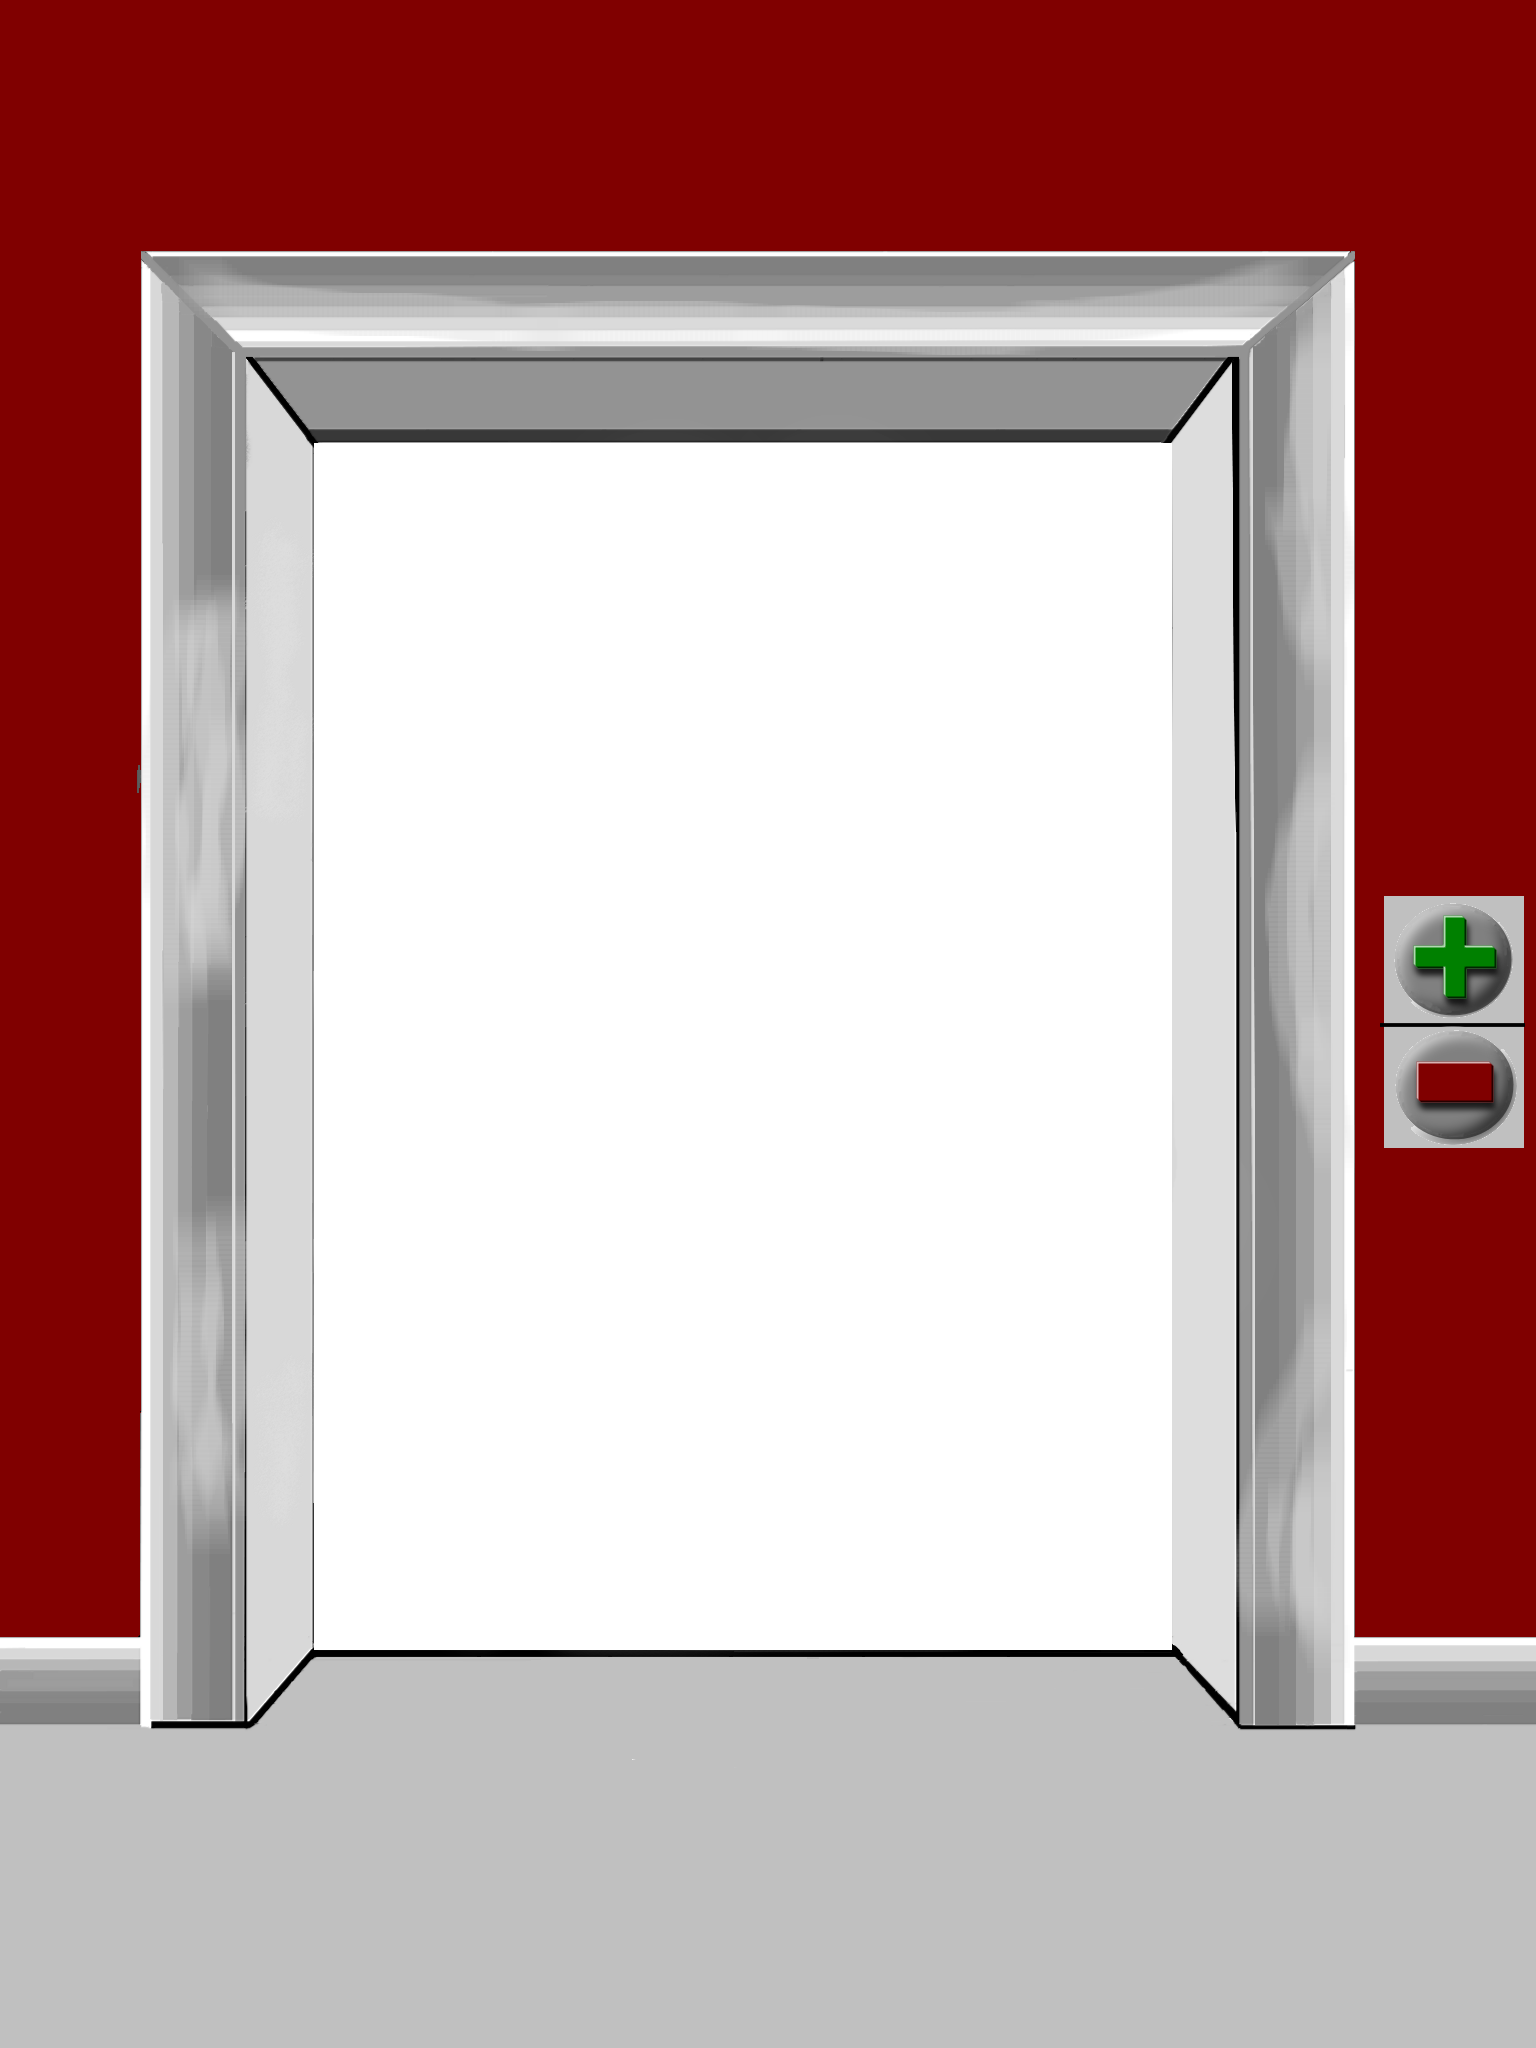
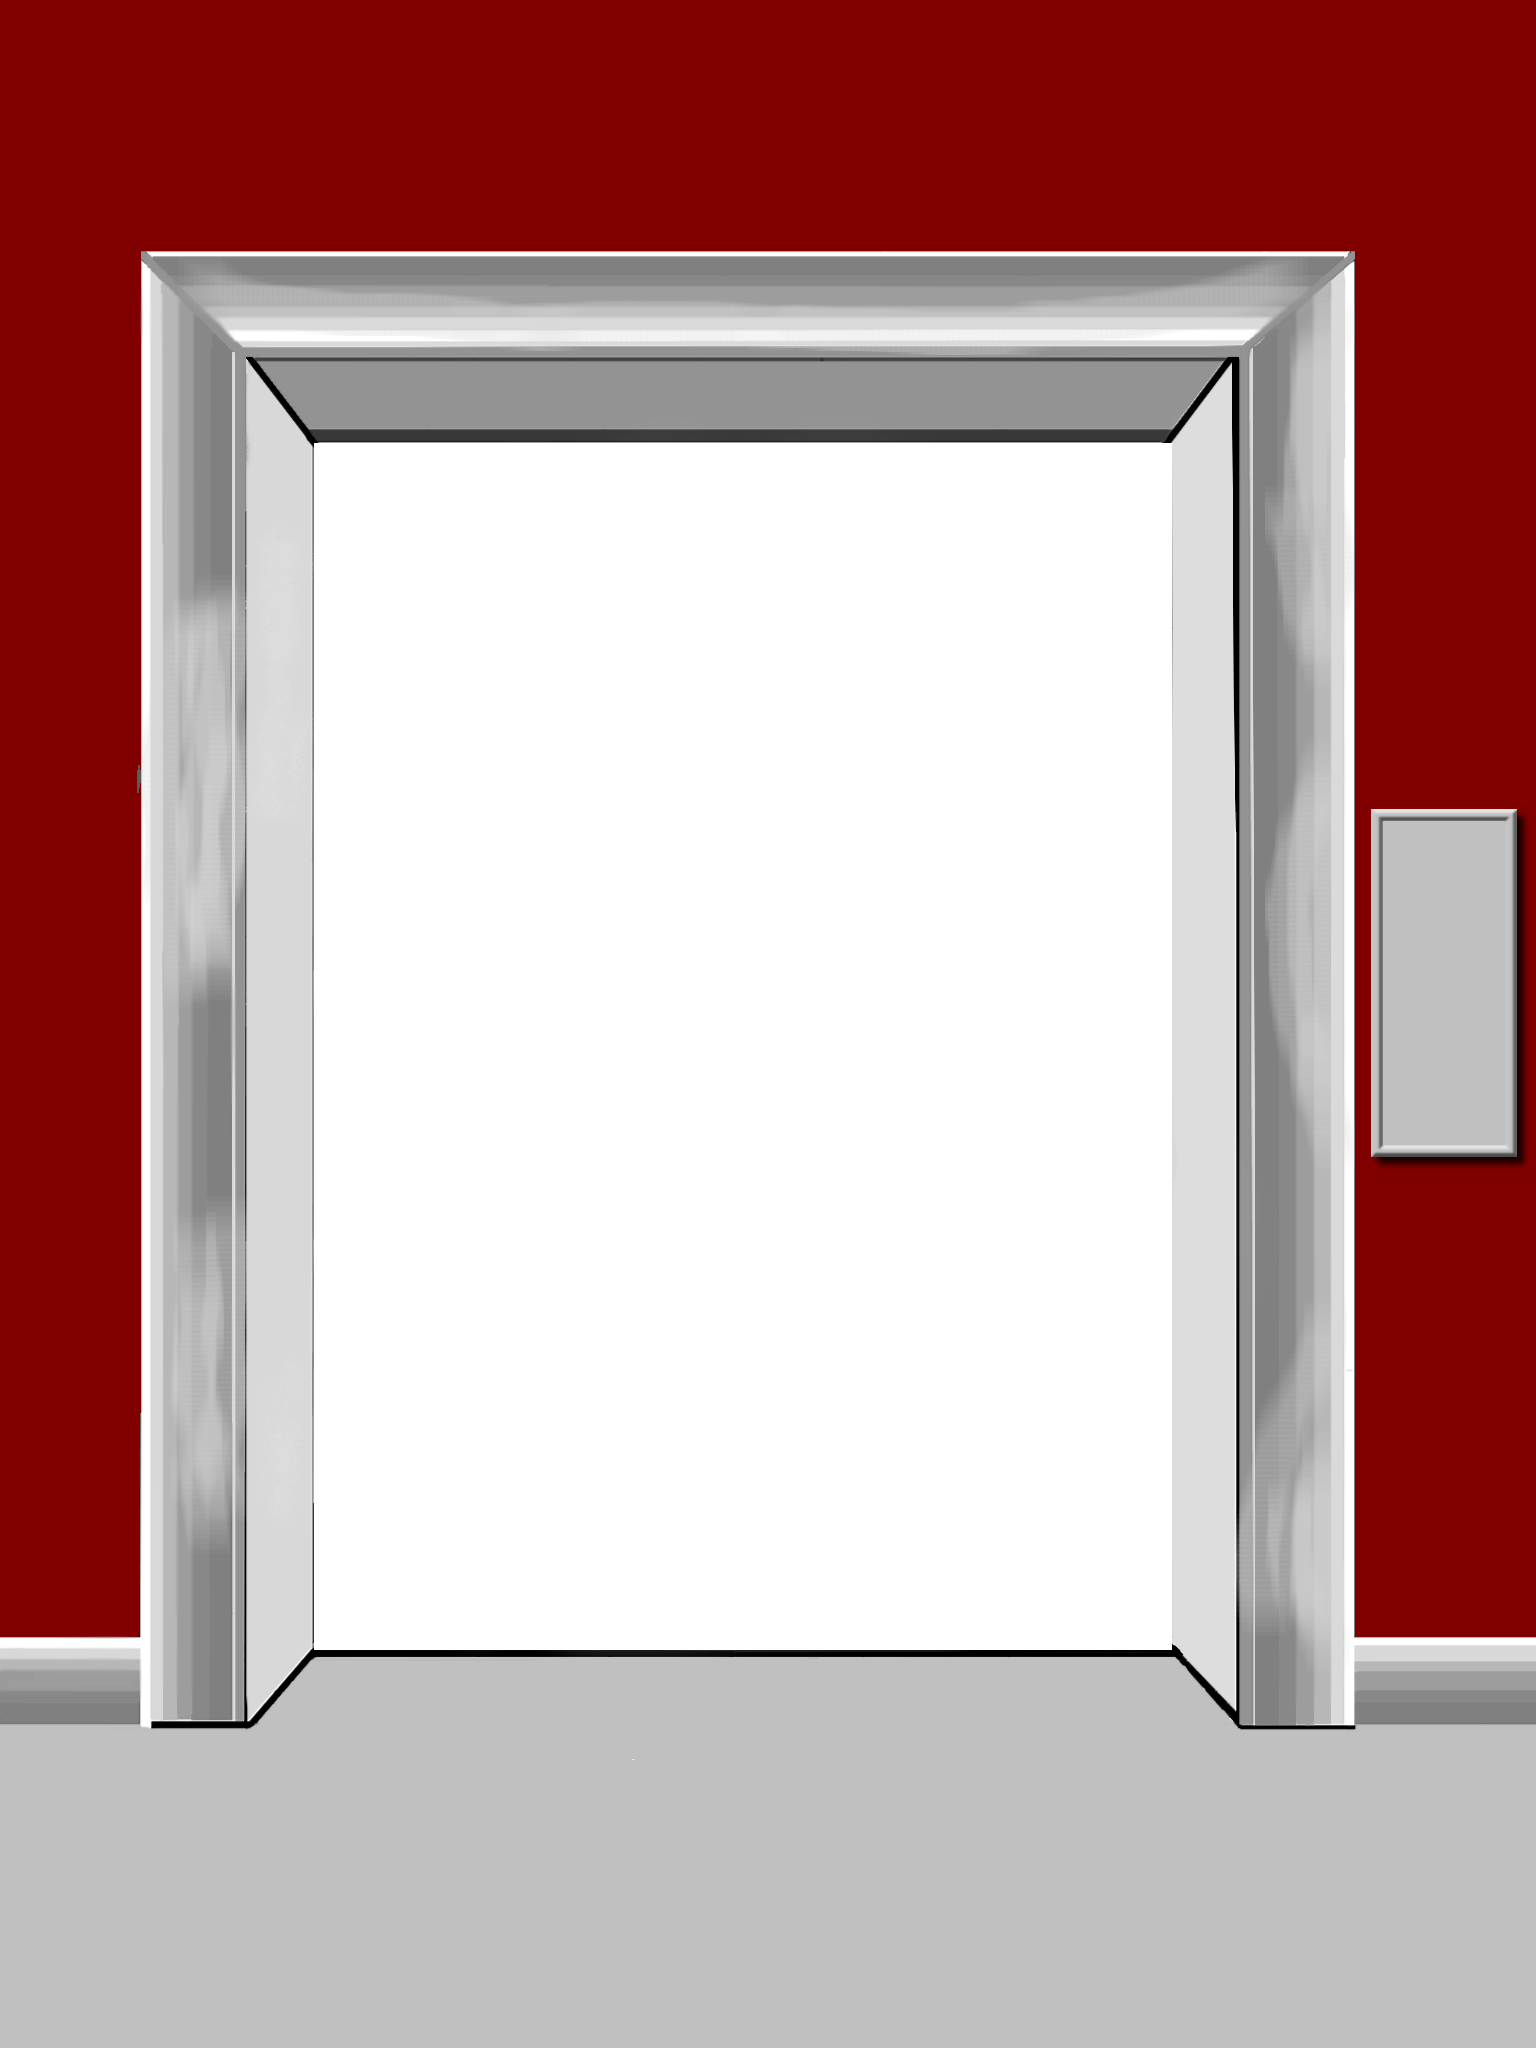
Ajout sprite et animation des boutons

Changed region(s): [[0.875, 0.375, 1.0, 0.5938]]

diff --git a/liftPrices/js/lift.js b/liftPrices/js/lift.js
@@ -2,6 +2,8 @@ var outSide; var tempOutSide;
 var inSide; var tempInSide;
 var leftDoor; var tempLeftDoor;
 var rightDoor; var tempRightDoor;
+var buttonMore; var tempButtonMore;
+var buttonLess; var buttonLess;
 
 var limitXLeft = 314;
 var limitXRight = 743;
@@ -19,6 +21,15 @@ function createLift() {
 	game.physics.enable(rightDoor, Phaser.Physics.ARCADE);
 	outSide = game.add.sprite(0,0, "outSide");
 	game.physics.enable(outSide, Phaser.Physics.ARCADE);
+	//button
+	buttonMore = game.add.sprite(1387, 850, "buttonMore");
+	game.physics.enable(buttonMore, Phaser.Physics.ARCADE);
+	buttonLess = game.add.sprite(1387, 1000, "buttonLess");
+	game.physics.enable(buttonLess, Phaser.Physics.ARCADE);
+	buttonMore.animations.add("buttonMoreAnim", [0,1,2,1,0]);
+	buttonMore.animations.play("buttonMoreAnim",5,true);
+	buttonLess.animations.add("buttonLessAnim", [0,1,2,1,0]);
+	buttonLess.animations.play("buttonLessAnim",5,true);
 }
 
 function updateLift() {

diff --git a/liftPrices/js/main.js b/liftPrices/js/main.js
@@ -14,6 +14,8 @@ function preload() {
 	game.load.image("inSide", "param/img/lift/inSide.png");
 	game.load.image("leftDoor", "param/img/lift/leftDoor.png");
 	game.load.image("rightDoor", "param/img/lift/rightDoor.png");
+	game.load.atlas("buttonMore", "param/img/lift/buttonMore.png", "js/spriteConf/buttonMore.json");
+	game.load.atlas("buttonLess", "param/img/lift/buttonLess.png", "js/spriteConf/buttonLess.json");
 }
 
 //dans cette section on effectue la création des objets su jeu nommé sprite (bouton, produit)
